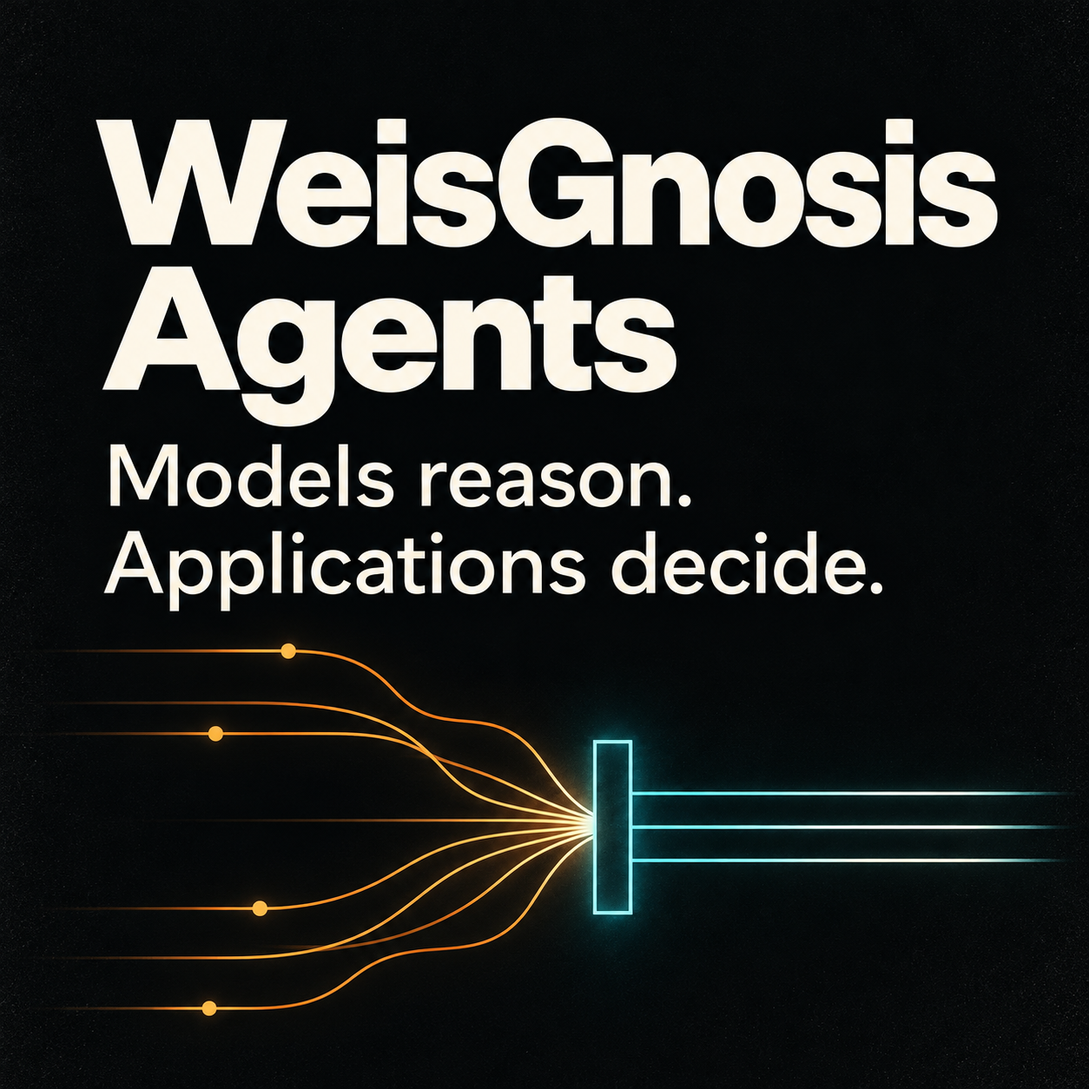
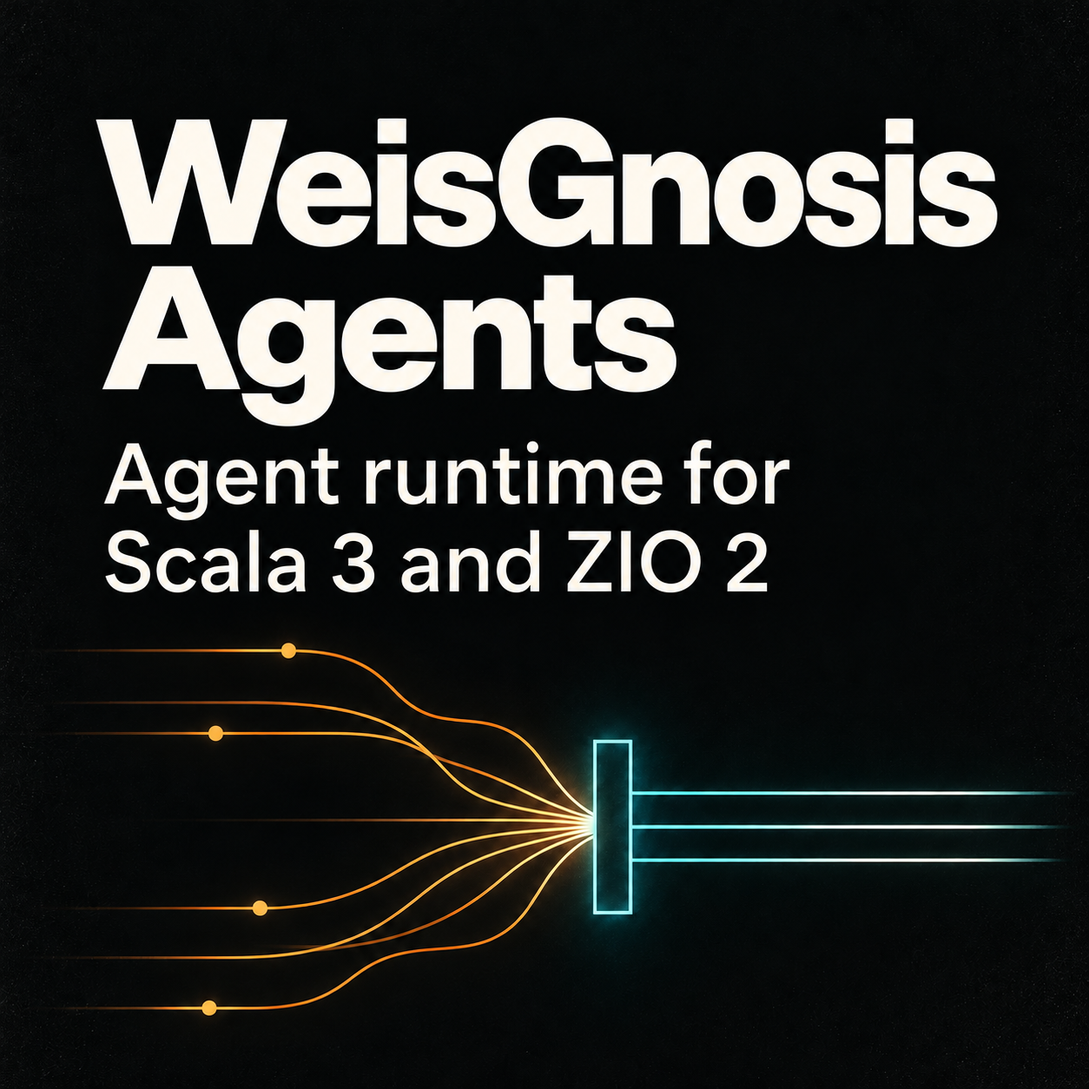
Lead README with a complete model-and-tool example

diff --git a/README.md b/README.md
@@ -2,32 +2,97 @@
 
 <picture>
   <source media="(max-width: 600px)" srcset="docs/assets/weisgnosis-hero-mobile.png">
-  <img src="docs/assets/weisgnosis-hero.png" width="100%" alt="WeisGnosis Agents — Models reason. Applications decide. Amber proposal paths pass through a cyan application-control gate.">
+  <img src="docs/assets/weisgnosis-hero.png" width="100%" alt="WeisGnosis Agents: agent runtime for Scala 3 and ZIO 2. Amber paths converge at a cyan application-control gate.">
 </picture>
 
-**Tool-using agents and collaborating teams, built into your Scala service.**
-WeisGnosis Agents is an embeddable Scala 3 / ZIO 2 runtime: connect your business tools and models, then keep execution, permissions and resource ownership in application code.
+WeisGnosis Agents is a Scala 3 / ZIO 2 library for agents that call your service's functions and work together. Your application supplies the models and tools, controls permissions, and manages how work starts, stops and resumes.
 
+[![CI](https://github.com/weisgnosis/weisgnosis-agents/actions/workflows/ci.yml/badge.svg?branch=main)](https://github.com/weisgnosis/weisgnosis-agents/actions/workflows/ci.yml)
+[![Maven Central](https://img.shields.io/maven-central/v/com.weisgnosis/weisgnosis-agents-core_3)](https://central.sonatype.com/artifact/com.weisgnosis/weisgnosis-agents-core_3)
 [![Scala 3.9.0](https://img.shields.io/badge/Scala-3.9.0-CB3544)](https://www.scala-lang.org/)
 [![ZIO 2.1.26](https://img.shields.io/badge/ZIO-2.1.26-087E8B)](https://zio.dev/)
 [![Apache-2.0](https://img.shields.io/badge/License-Apache--2.0-475569)](LICENSE)
 
-[**Run the proof**](#quickstart) · [**Build your first agent**](docs/getting-started.md#release-evidence-assistant) · [Install RC1](docs/packages.md) · [Run a team](#multi-agent-workflows) · [API guides](docs/README.md)
+[**First agent**](#first-agent) · [Runtime verification](#verify-runtime-guarantees-no-credentials) · [Three-agent example](#example-release-review-with-three-agents) · [Modules](#choose-your-modules) · [API guides](docs/README.md)
 
-## A release decision backed by evidence
+<a id="quickstart"></a>
 
-The build passes. Tests pass. Security reports a high-severity finding. An **Analyst** reads the evidence, a **Checker** receives the findings, and a **Reporter** proposes a blocked release. Your host validates the proposal against the actual tool observations.
+## First agent
 
-<picture>
-  <source media="(max-width: 600px)" srcset="docs/assets/release-team-mobile.svg">
-  <img src="docs/assets/release-team.svg" width="100%" alt="BUILD-1 passed, TEST-1 passed and SEC-1 high severity feed an Analyst. A Checker and Reporter receive attributed findings. The host validates the proposed blocked-release decision against the actual evidence.">
-</picture>
+Requires **JDK 21 and sbt 1.12.11**; the build uses Scala 3.9.0. RC1 has no Scala 3.3 LTS build. In a new sbt project, add this to `build.sbt`:
 
-This is an executable, host-guided fixture with [selected same-model and mixed-model live results](docs/live-e2e-results.md#e4-useful-room-and-pipeline-evidence). Each agent keeps its own conversation; a peer's tool calls supply context without gaining local execution authority. [Read the application](modules/examples/src/main/scala/com/weisgnosis/agents/examples/LiveCoordinationEvidence.scala) or [run the team](#multi-agent-workflows).
+```scala
+scalaVersion := "3.9.0"
+libraryDependencies += "com.weisgnosis" %% "weisgnosis-agents-core" % "0.1.0-RC1"
+```
 
-## Quickstart
+Set `sbt.version=1.12.11` in `project/build.properties`. The signed artifacts resolve from Maven Central with no token or custom resolver.
 
-**JDK 21 · sbt 1.12.11 · no credentials or model downloads.** From a terminal:
+Set `OPENAI_API_KEY` and `OPENAI_MODEL` in the process environment, selecting an OpenAI model that supports Chat Completions tool calling and `temperature=0.7` (the default in `LlmConfig`). Save the following as `src/main/scala/FirstAgent.scala`. It connects to OpenAI, exposes one tool and asks the model to assess a release. The tool supplies fixed demonstration data; replace its handler with your service function to read real evidence.
+
+```scala
+package example
+
+import com.weisgnosis.agents.core.agent.ReActAgent
+import com.weisgnosis.agents.core.client.{ChatCompletionsClient, LlmConfig}
+import com.weisgnosis.agents.core.model.Msg
+import com.weisgnosis.agents.core.tool.{Tool, Toolkit}
+import zio.*
+import zio.http.Client
+import zio.json.*
+import zio.json.ast.Json
+
+object FirstAgent extends ZIOAppDefault:
+  final case class ReleaseQuery(release: String) derives JsonCodec
+
+  private val evidence: Tool[Any, ReleaseQuery, String] =
+    Tool.fromFunction[ReleaseQuery, String](
+      "read_release_evidence",
+      "Read build, test and security findings for a release.",
+      Json.Obj(
+        "type" -> Json.Str("object"),
+        "properties" -> Json.Obj("release" -> Json.Obj("type" -> Json.Str("string"))),
+        "required" -> Json.Arr(Json.Str("release")),
+        "additionalProperties" -> Json.Bool(false)
+      ),
+      isReadOnly = true
+    )(query => ZIO.succeed(s"${query.release}: BUILD-1 passed; TEST-1 passed; SEC-1 failed: high severity"))
+
+  def run: ZIO[Any, Throwable, Unit] =
+    val program: ZIO[Client & Scope, Throwable, Unit] =
+      for
+        key <- ZIO.config(Config.string("OPENAI_API_KEY"))
+        model <- ZIO.config(Config.string("OPENAI_MODEL"))
+        http <- ZIO.service[Client]
+        client <- ChatCompletionsClient.make(http)
+        agent <- ReActAgent.builder()
+          .client(client)
+          .llmConfig(LlmConfig(model, apiKey = Some(key)))
+          .toolkit(Toolkit.single(evidence))
+          .maxIterations(4)
+          .timeout(1.minute)
+          .build
+        result <- agent.run(Msg.user("Use read_release_evidence for RC1 and explain whether to release."))
+        _ <- Console.printLine(s"${result.state}: ${result.reply.text}")
+      yield ()
+    ZIO.scoped(program).provide(Client.default)
+```
+
+Run:
+
+```sh
+sbt "runMain example.FirstAgent"
+```
+
+An example reply is `Completed: RC1 should be blocked because SEC-1 reports a high-severity finding.` The wording and tool selection depend on the model. This makes real API requests and can incur provider charges.
+
+RC1 requires an explicit JSON Schema for tool arguments: `JsonCodec` handles JSON encoding/decoding, while the schema declares allowed inputs; automatic schema derivation is not yet implemented.
+
+For another compatible endpoint, set `LlmConfig.endpoint` to its complete Chat Completions URL. Native Anthropic and Gemini setup is covered in the [client guide](modules/core/src/main/scala/com/weisgnosis/agents/core/client/README.md). See the [release assistant](docs/getting-started.md#release-evidence-assistant) for a larger integration with an injected service function.
+
+## Verify runtime guarantees (no credentials)
+
+This offline example uses a scripted model to interrupt two running tools and check the resulting history. It is useful for evaluating cancellation behavior before connecting a provider. From a checkout of this repository:
 
 ```sh
 git clone https://github.com/weisgnosis/weisgnosis-agents.git
@@ -35,10 +100,10 @@ cd weisgnosis-agents
 sbt "examples / runMain com.weisgnosis.agents.examples.SyntheticRuntimeComparison"
 ```
 
-This runs **real tools through the public ReAct runtime with a scripted model**. The executable checks overlapping tool execution, repeated interruption, held cleanup and continuation. It prints a JSON receipt; require every contract field to be `true`.
+The executable checks that completed results survive interruption, unfinished calls receive error results, and cancellation waits for tool cleanup. It prints a JSON receipt and exits with a failure if any check fails.
 
 <details>
-<summary><strong>Expected receipt — these are assertions, not a model's success claim</strong></summary>
+<summary><strong>Expected verification receipt</strong></summary>
 
 ```json
 {
@@ -55,177 +120,88 @@ This runs **real tools through the public ReAct runtime with a scripted model**.
 }
 ```
 
-The receipt is shown formatted for readability. The application emits one JSON line and fails its assertions if any contract is false.
+The application emits one JSON line; the receipt above is formatted for readability. The fields record checks of call ordering, result preservation, cleanup, recovery and continuation.
 
 </details>
 
-[Read the complete executable](modules/examples/src/main/scala/com/weisgnosis/agents/examples/SyntheticRuntimeComparison.scala) · [Inspect the lifecycle contract](modules/core/src/main/scala/com/weisgnosis/agents/core/agent/README.md) · [Selected real-model interruption results](docs/live-e2e-results.md#e3-cooperative-interruption-and-same-runtime-continuation)
+[Complete executable](modules/examples/src/main/scala/com/weisgnosis/agents/examples/SyntheticRuntimeComparison.scala) · [Runtime contract](modules/core/src/main/scala/com/weisgnosis/agents/core/agent/README.md) · [Selected live-provider results](docs/live-e2e-results.md#e3-cooperative-interruption-and-same-runtime-continuation)
 
-This demonstrates process-local history and owned local cleanup. It does not imply rollback of external side effects, cancellation of remote inference or recovery of executing work after a process restart.
+### Interrupting a turn with running tools
 
-## Interrupt halfway. Keep the work already done.
-
-Now stop an evidence-gathering turn halfway through. One read has finished; the other is still running. In the deterministic scenario below, the host requests interruption twice while the second tool deliberately holds cleanup open.
-
-**Keep the successful observation. Wait for owned cleanup. Continue with a complete history.**
+One evidence read has finished while another is still running. The application requests interruption twice. WeisGnosis keeps the finished result, waits for the second tool to release its resources, and adds an error result for its unfinished call. The next turn can continue on the same agent with a complete conversation history.
 
 <picture>
   <source media="(max-width: 600px)" srcset="docs/assets/execution-trace-mobile.svg">
-  <img src="docs/assets/execution-trace.svg" width="100%" alt="Two tool calls are recorded before execution. completed_read succeeds and its result is preserved. held_read is interrupted; cancellation waits for cleanup, then only its unfinished call receives Error. The same runtime continues without repeating the tools.">
+  <img src="docs/assets/execution-trace.svg" width="100%" alt="Both tool calls enter history before execution. completed_read finishes and its result is retained. held_read is interrupted; the runtime waits for resource cleanup and adds its error result before the next turn.">
 </picture>
 
-WeisGnosis records assistant calls before local dispatch, preserves completed observations, joins owned cleanup, and reconciles only unfinished calls. The next turn can use the same runtime and its intact conversation history.
+<a id="multi-agent-workflows"></a>
 
-## Why this exists
+## Example: release review with three agents
 
-> Scala 3 was the language I wanted to build with. I couldn't find agent tooling that fit what I needed, so I started with AgentScope Java. I valued its approach, even though it wasn't the right fit for me. That experience inspired WeisGnosis Agents.
->
-> — The project's author
+The same release evidence can pass through an **Analyst**, a **Checker** and a **Reporter**. The Analyst reads the findings; the Checker reviews them; the Reporter proposes a blocked release. The application checks that proposal against the actual tool results.
 
-The goal is to make agent development feel at home in Scala: native data types and APIs, composable effects, explicit dependencies and owned resources. AgentScope's ideas are the starting point; Scala and ZIO shape the implementation.
+<picture>
+  <source media="(max-width: 600px)" srcset="docs/assets/release-team-mobile.svg">
+  <img src="docs/assets/release-team.svg" width="100%" alt="BUILD-1 passed, TEST-1 passed and SEC-1 high severity feed an Analyst. A Checker and Reporter review the findings. The application validates the proposed release decision against the evidence.">
+</picture>
 
-**An agent becomes application code the moment it calls your tools.**
+Each agent has its own conversation. Replies from other agents become attributed context; receiving a peer's tool call does not execute that tool locally. The application chooses the order of turns and checks the final decision.
 
-A model proposes an action. Your service has to authorize it, validate its arguments, execute the operation and know whether it actually finished. Add another agent, a waiting approval or a user interruption, and the lifecycle becomes part of the product.
-
-WeisGnosis brings that work into the Scala/ZIO model your service already uses. Dependencies and recoverable failures remain explicit in effect signatures. Tool execution failures become observations the model can respond to; interruption retains its own meaning.
-
-Use it when you want to:
-
-- **Embed an assistant in a Scala service:** expose selected business operations as typed tools and compose agent work with existing ZIO dependencies.
-- **Keep humans in consequential workflows:** install permission gates, suspend before acting, then resume a checked checkpoint under current host authorization.
-- **Coordinate specialists:** hand off completed replies, fan out independent work or share attributed findings between agents with separate histories.
-
-[Why Scala and ZIO](docs/scala-zio-positioning.md) explains the architectural choice and its limits.
-
-## From a tool call to a service workflow
-
-**Your service function becomes the agent's tool.** In this example, the host supplies `readEvidence`: an effect that reads build, test and security findings for a release. The schema controls the model-facing arguments; Scala keeps the decoded input and handler types connected.
-
-Input: `{"release":"RC1"}`. The handler returns evidence text such as `BUILD-1 passed; TEST-1 passed; SEC-1 failed: high severity`. The agent receives that text as a tool observation before its next model turn. Your real handler supplies the data; these values illustrate its contract.
-
-The adapter is small; `readEvidence` remains your ordinary effectful Scala function. `ReleaseQuery` and its explicit schema are defined in the complete function below.
-
-```scala
-val evidence: Tool[Any, ReleaseQuery, String] = Tool.fromFunction[ReleaseQuery, String](
-  "read_release_evidence",
-  "Read build, test and security findings for a release.",
-  releaseQuerySchema,
-  isReadOnly = true
-)(readEvidence)
-```
-
-<details>
-<summary><strong>Complete integration: input type, schema, tool and scoped agent run</strong></summary>
-
-```scala
-import com.weisgnosis.agents.core.agent.{AgentResult, ReActAgent}
-import com.weisgnosis.agents.core.client.{LlmClient, LlmConfig}
-import com.weisgnosis.agents.core.error.AgentError
-import com.weisgnosis.agents.core.model.Msg
-import com.weisgnosis.agents.core.tool.{Tool, Toolkit}
-import zio.*
-import zio.json.*
-import zio.json.ast.Json
-
-final case class ReleaseQuery(release: String) derives JsonCodec
-
-def inspectRelease(
-    client: LlmClient,
-    config: LlmConfig,
-    readEvidence: ReleaseQuery => IO[AgentError, String]
-): IO[AgentError, AgentResult] =
-  ZIO.scoped:
-    val releaseQuerySchema: Json.Obj = Json.Obj(
-      "type" -> Json.Str("object"),
-      "properties" -> Json.Obj("release" -> Json.Obj("type" -> Json.Str("string"))),
-      "required" -> Json.Arr(Json.Str("release")),
-      "additionalProperties" -> Json.Bool(false)
-    )
-    val evidence: Tool[Any, ReleaseQuery, String] = Tool.fromFunction[ReleaseQuery, String](
-      "read_release_evidence",
-      "Read build, test and security findings for a release.",
-      releaseQuerySchema,
-      isReadOnly = true
-    )(readEvidence)
-    for
-      agent <- ReActAgent.builder()
-        .client(client)
-        .llmConfig(config)
-        .toolkit(Toolkit.single(evidence))
-        .maxIterations(6)
-        .timeout(1.minute)
-        .build
-      result <- agent.run(Msg.user("Read the evidence for RC1 and explain any release blockers."))
-    yield result
-```
-
-</details>
-
-`AgentResult.state` distinguishes `Completed`, `Suspended`, `Interrupted` and `Stopped`. The reply is model content; the state describes the runtime outcome. Deadline cancellation still waits for owned cleanup, so elapsed time may exceed the deadline.
-
-**Tools are capabilities you explicitly supply.** Typed functions use `JsonCodec` plus an explicit JSON Schema; external arguments are checked before execution. Add [MCP tools/resources](docs/getting-started.md#owned-mcp-installation) when the capability lives behind a server. Install authorization for restricted operations: the default tool authorizer allows execution.
-
-[Run this release-evidence assistant](docs/getting-started.md#release-evidence-assistant) · [Permission and approval guide](modules/harness/src/main/scala/com/weisgnosis/agents/harness/permission/README.md)
-
-## Multi-agent workflows
-
-Run the release-evidence team with a live model after [configuring the live environment](modules/examples/README.md#live-endpoint-verification):
+After [configuring the live environment](modules/examples/README.md#live-endpoint-verification), run:
 
 ```sh
 sbt "examples / runMain com.weisgnosis.agents.examples.LiveCoordinationEvidence"
 ```
 
-The host guides the tool phases and checks the exact decision. This demonstrates controlled collaboration rather than autonomous planning. Live execution requires a configured endpoint, selected models and any required credentials, and may incur provider charges. For a small no-network introduction to peer delivery, use [MsgHubConversation](modules/examples/README.md#persistent-agent-conversation).
+[Application source](modules/examples/src/main/scala/com/weisgnosis/agents/examples/LiveCoordinationEvidence.scala) · [Selected same-model and mixed-model results](docs/live-e2e-results.md#e4-useful-room-and-pipeline-evidence) · [Offline peer-conversation example](modules/examples/README.md#persistent-agent-conversation)
 
-Choose the composition your workflow needs:
-
-| Composition | What it gives your application |
+| Composition | How your application uses it |
 | --- | --- |
-| **Sequential pipeline** | Attributed handoff to the next specialist after a completed stage. |
-| **Bounded fanout** | Concurrent independent work; outcomes collected in declaration order. |
-| **MsgHub** | Attributed peer observations, separate histories and host-selected turns. Flush queued observations explicitly between rounds. |
-| **Supervised subagents** | Scoped child tasks; promoted work transfers to an explicit supervisor. |
+| **Sequential pipeline** | Pass a completed stage's reply to the next agent. |
+| **Bounded fanout** | Run independent stages concurrently with a limit, collecting results in declaration order. |
+| **MsgHub** | Share attributed observations between agents with separate histories; flush queued messages between turns. |
+| **Supervised subagents** | Start child tasks. An explicit supervisor owns tasks that continue after the initial wait ends. |
 
-[Pipeline and MsgHub guide](modules/core/src/main/scala/com/weisgnosis/agents/core/coordination/README.md) · [Subagent ownership](modules/harness/src/main/scala/com/weisgnosis/agents/harness/subagent/README.md)
+[Pipeline and MsgHub guide](modules/core/src/main/scala/com/weisgnosis/agents/core/coordination/README.md) · [Subagent guide](modules/harness/src/main/scala/com/weisgnosis/agents/harness/subagent/README.md)
 
-## Install what your host needs
+## Why this exists
 
-**[0.1.0-RC1 is on Maven Central](https://central.sonatype.com/artifact/com.weisgnosis/weisgnosis-agents-core_3/0.1.0-RC1).** All five modules are signed with the [release key](project/keys/README.md). Requires Scala 3.9.0 / JDK 21; candidate APIs may change.
+The project began with a desire to build agent applications in Scala 3. AgentScope Java was an early starting point: its approach was valuable and inspiring, but the implementation did not fit the author's needs. WeisGnosis Agents carries that inspiration into Scala and ZIO, with native data types, composable effects, explicit dependencies and scoped resources.
 
-In your application's `build.sbt` — no token or custom resolver required:
+When a model calls a business function, the application needs to validate its arguments, authorize the action, execute it and record the outcome. WeisGnosis provides that execution layer, including interruption recovery, approval checkpoints and coordination between agents. Tool execution failures become observations the model can respond to.
 
-```scala
-scalaVersion := "3.9.0"
+Use it to embed an assistant in an existing Scala service, connect selected business operations as typed tools, or add approvals and specialist agents to a workflow. [Why Scala and ZIO](docs/scala-zio-positioning.md) explains the architectural choices.
 
-libraryDependencies +=
-  "com.weisgnosis" %% "weisgnosis-agents-core" % "0.1.0-RC1"
-```
+<a id="install-what-your-host-needs"></a>
 
-Set `sbt.version=1.12.11` in `project/build.properties`. The [installation guide](docs/packages.md) covers optional modules, signature verification, GitHub Packages and the downloadable Maven repository.
+## Choose your modules
+
+All five modules are available as signed `0.1.0-RC1` artifacts on Maven Central. Add only the modules your application needs:
 
 | Module | Add it for |
 | --- | --- |
-| [core](modules/core/README.md) | ReAct, typed tools, structured output, model clients, pipelines and MsgHub. Start here. |
-| [harness](modules/harness/README.md) | Approvals, planning, compaction, output offload, memory, transcripts, skills and subagents. |
-| [mcp](modules/mcp/README.md) | Tools/resources over stdio, Streamable HTTP and legacy HTTP/SSE. |
-| [storage-postgresql](modules/storage-postgresql/README.md) | Conditional JSON persistence through your DataSource. |
-| [otel](modules/otel/README.md) | Tracing through your OpenTelemetry SDK/exporter. |
+| [core](modules/core/README.md) | Agent execution, typed tools, structured output, model clients, pipelines and MsgHub. |
+| [harness](modules/harness/README.md) | Approvals, planning, context compaction, large-output storage, memory, transcripts, skills and subagents. |
+| [mcp](modules/mcp/README.md) | Tools and resources from Model Context Protocol servers over stdio or HTTP. |
+| [storage-postgresql](modules/storage-postgresql/README.md) | PostgreSQL persistence through a DataSource supplied by your application. |
+| [otel](modules/otel/README.md) | Tracing through your application's OpenTelemetry SDK and exporter. |
 
-Artifact names are `weisgnosis-agents-<module>`, for example `weisgnosis-agents-core`. For source development, `sbt "core / publishLocal"` installs `0.1.0-SNAPSHOT`; [the source setup](docs/getting-started.md#build-and-local-installation) covers the separate consumer application and optional modules.
+Artifact names are `weisgnosis-agents-<module>`, using organization `com.weisgnosis` and Scala `%%` coordinates. See [package installation and signature verification](docs/packages.md) or [building from source](docs/getting-started.md#build-and-local-installation).
 
 ## Boundaries to know
 
-- **You own the host:** authentication, business tools, durable orchestration and idempotency. There is no bundled general shell/file/web toolkit or RAG engine.
-- **History is not a running process:** persistence restores checked data or suspension; it does not resurrect fibers. Process-local approvals and hub queues do not survive restarts automatically.
-- **Compatibility is explicit:** OpenAI-compatible endpoints and native Anthropic/Gemini adapters have [documented profiles](modules/core/src/main/scala/com/weisgnosis/agents/core/client/README.md). Selected live results do not certify every model, provider or platform.
-- **Infrastructure keeps its own limits:** path checks are not an atomic filesystem sandbox. PostgreSQL needs a host-owned pool/schema; uncertain writes are not automatically replayed. Frozen binary compatibility and Scala 3.3 cross-builds are not supplied.
+- **Application responsibilities:** configure authorization for restricted tools; the default tool authorizer allows execution. Your application also owns authentication, business tools, deciding which worker may resume a saved checkpoint, and preventing duplicate business operations. There is no bundled general shell/file/web toolkit or RAG engine.
+- **Cancellation and persistence:** cancellation waits for resources owned by the run to be released, so elapsed time can exceed its deadline. The offline example covers in-process history; external side effects are not rolled back. Stored history and checkpoints do not restart fibers or recover executing work after a process restart. Process-local approvals and hub queues need host-managed durable equivalents to survive restarts.
+- **Runtime outcomes:** `AgentResult.state` reports `Completed`, `Suspended`, `Interrupted` or `Stopped`. Applications should inspect it alongside the model's reply when deciding what to do next.
+- **Models and providers:** the first example uses fixed evidence, and the three-agent example uses application-selected turns. Selected live results cover their documented models and configurations. Compatible endpoints and native adapters have [documented profiles](modules/core/src/main/scala/com/weisgnosis/agents/core/client/README.md); local interruption does not guarantee cancellation of remote inference.
+- **Infrastructure and compatibility:** path checks are not an atomic filesystem sandbox. PostgreSQL needs an application-owned pool and schema. RC APIs may change; rebuild consumers when upgrading. Frozen binary compatibility and Scala 3.3 cross-builds are not supplied.
 
 ## Learn more and contribute
 
 [Getting started](docs/getting-started.md) · [API guides](docs/README.md) · [Architecture](ARCHITECTURE.md) · [Live evidence](docs/live-e2e-results.md) · [Completion scope](docs/architecture/tracker.md)
 
-Concrete counterexamples, bug reports and small working integrations are welcome. [Contributing](CONTRIBUTING.md) explains checks and independent review; run `sbt verify` for a contribution and `sbt packageArtifacts` for local archives. [Open an issue](https://github.com/weisgnosis/weisgnosis-agents/issues) or [help other Scala developers discover the project](https://github.com/weisgnosis/weisgnosis-agents/stargazers).
+Bug reports, concrete counterexamples and small working integrations are welcome. [Contributing](CONTRIBUTING.md) explains checks and independent review. [Open an issue](https://github.com/weisgnosis/weisgnosis-agents/issues) to report a problem or suggest an integration.
 
 ## License and acknowledgements
 

diff --git a/docs/getting-started.md b/docs/getting-started.md
@@ -133,7 +133,7 @@ Use `ChatCompletionsClient.makeNonStreaming` only when the selected endpoint sup
 
 ## Release evidence assistant
 
-This is the complete application behind the root README's integration function. It uses a real compatible SSE Chat Completions endpoint with a **fixed read-only evidence fixture**; it does not read your CI system. Replace `readEvidence` with your own service function to connect real checks. The host supplies the tool; model text never authorizes a deployment.
+This larger version of the [first agent](../README.md#first-agent) accepts an injected evidence-reading service function. It uses a real compatible SSE Chat Completions endpoint with a **fixed read-only evidence fixture**; it does not read your CI system. Replace `readEvidence` with your own service function to connect real checks. The host supplies the tool; model text never authorizes a deployment.
 
 Install core with the [release resolver](packages.md), or use the [source setup](#build-and-local-installation) above. Set `WEISGNOSIS_EXAMPLE_ENDPOINT` to the full URL ending in `/chat/completions`, `WEISGNOSIS_EXAMPLE_MODEL` to a compatible tool-calling model and optionally `WEISGNOSIS_EXAMPLE_API_KEY` through the process environment. Requests may incur provider charges.
 
